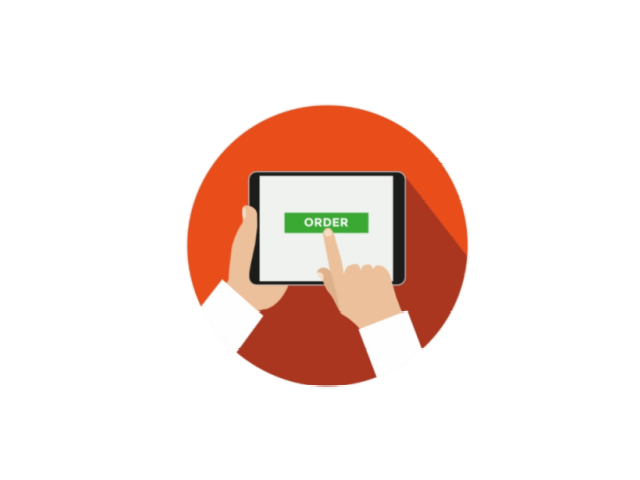
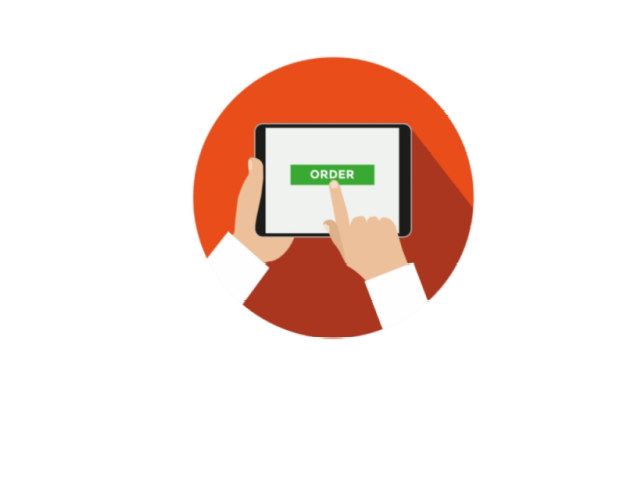
css layots

Changed region(s): [[0.2812, 0.0938, 0.75, 0.8125]]

diff --git a/src/components/MainPage/MainPage.jsx b/src/components/MainPage/MainPage.jsx
@@ -5,49 +5,46 @@ import slide2 from "../../assets/images/Slide2.png";
 import slide3 from "../../assets/images/Slide3.png";
 import s from "./MainPage.module.css";
 
-const MainPage = () => {
+const MainPage = (props) => {
     const [index, setIndex] = useState(0);
     const handleSelect = (selectedIndex, e) => {
         setIndex(selectedIndex);
     };
-
-    return <div>
-        <Carousel activeIndex={index} onSelect={handleSelect} className = {s.carousel}>
+    return <div className = {!props.isAuth&&s.auth || props.isAuth&&s.notAuth}>
+        <Carousel activeIndex={index} onSelect={handleSelect} >
             <Carousel.Item>
                 <img
-                    className={s.image}
+                    className={!props.isAuth&&s.image || props.isAuth&&s.imageNotAuth}
                     src={slide1}
                     alt="First slide"
                 />
                 <Carousel.Caption>
-                    <h3>First slide label</h3>
-                    <p>Nulla vitae elit libero, a pharetra augue mollis interdum.</p>
+                    <h3 className={s.text}>Сделайте или возьмите в работу заказ</h3>
+                    <p className={s.text}>Вы можете разместить или взять в работу заказ за 1 минуту </p>
                 </Carousel.Caption>
             </Carousel.Item>
             <Carousel.Item>
                 <img
-                    className={s.image}
+                    className={!props.isAuth&&s.image || props.isAuth&&s.imageNotAuth}
                     src={slide2}
                     alt="Second slide"
                 />
 
                 <Carousel.Caption>
-                    <h3>Second slide label</h3>
-                    <p>Lorem ipsum dolor sit amet, consectetur adipiscing elit.</p>
+                    <h3 className={s.text}>Передайте или заберите заказ</h3>
+                    <p className={s.text}>Все заказы застрахованы</p>
                 </Carousel.Caption>
             </Carousel.Item>
             <Carousel.Item>
                 <img
-                    className={s.image}
+                    className={!props.isAuth&&s.image || props.isAuth&&s.imageNotAuth}
                     src={slide3}
                     alt="Third slide"
                 />
 
                 <Carousel.Caption>
-                    <h3>Third slide label</h3>
-                    <p>
-                        Praesent commodo cursus magna, vel scelerisque nisl consectetur.
-                    </p>
+                    <h3 className={s.text}>Будьте довольны</h3>
+                    <p className={s.text}>Согласно опросам, 98.6% пользователей довольны нашим сервисом</p>
                 </Carousel.Caption>
             </Carousel.Item>
         </Carousel>

diff --git a/src/components/Login/Login.jsx b/src/components/Login/Login.jsx
@@ -6,23 +6,24 @@ import {connect} from "react-redux";
 import {login} from "../../redux/auth-reducer";
 import {Link, Redirect} from "react-router-dom";
 import Button from "react-bootstrap/Button";
+import s from "./Login.module.css";
 
 const LoginForm = (props) => {
     return (
-        <div>
-        <form onSubmit={props.handleSubmit}>
-            <div>
-                <Field placeholder ={"Login"} name = {"login"} validate = {[required]} component = {Input}/>
-            </div>
-            <div>
-                <Field placeholder ={"Password"} name = {"password"} validate = {[required]} type={"password"} component = {Input}/>
-            </div>
-            <div>
-                <Button variant="success" type={"submit"}>Войти</Button>
-                <Link className="btn btn-primary" to={"/registration"}>Зарегистрироваться</Link>
-            </div>
-        </form>
-        </div>
+
+            <form className={s.loginForm} onSubmit={props.handleSubmit}>
+                <Field className={s.input} placeholder={"Логин"} name={"login"} validate={[required]}
+                       component={Input}/>
+
+                <Field className={s.input} placeholder={"Пароль"} name={"password"} validate={[required]}
+                       type={"password"} component={Input}/>
+
+                <div className={s.buttons}>
+                    <Button className={s.button} variant="success" type={"submit"}>Войти</Button>
+                    <Link className={"btn btn-primary" + " "+s.button} to={"/registration"}>Зарегистрироваться</Link>
+                </div>
+            </form>
+
     );
 };
 
@@ -36,11 +37,10 @@ const Login = (props) => {
         props.login(formData.login, formData.password)
     };
     if (props.isAuth) {
-        return <Redirect to={"/main"} />
+        return <Redirect to={"/main"}/>
     }
-    return <div>
-        <h1>Login</h1>
-        <LoginReduxForm onSubmit={onSubmit} />
+    return <div className={s.loginWrapper}>
+        <LoginReduxForm onSubmit={onSubmit}/>
     </div>
 };
 

diff --git a/src/App.js b/src/App.js
@@ -14,9 +14,9 @@ import Preloader from "./components/common/Preloader/Preloader";
 import Order from "./components/Order/Client/Order";
 import Price from "./components/Order/Client/Price";
 import OrdersPageContainer from "./components/Order/Common/OrdersPageContainer";
-import MainPage from "./components/MainPage/MainPage";
 import FooterContainer from "./components/Footer/FooterContainer";
 import background from "./assets/images/background.jpg";
+import MainPageContainer from "./components/MainPage/MainPageContainer";
 
 class App extends React.Component {
 
@@ -40,7 +40,7 @@ class App extends React.Component {
                 <div className={'app-wrapper-content'}>
                     <Route path='/main'
                            render={() =>
-                             <MainPage/>}/>
+                             <MainPageContainer/>}/>
                     <Route path='/registration'
                            render={() => <Registration/>}/>
                     <Route path='/login'

diff --git a/src/components/Header/Header.jsx b/src/components/Header/Header.jsx
@@ -1,15 +1,17 @@
 import React from 'react';
 import s from './Header.module.css';
 import {NavLink} from "react-router-dom";
+import {Button} from "react-bootstrap";
+import logo from "./../../assets/images/logo.png"
 
 const Header = (props) => {
     return <header className={s.header + ' ' +((props.role==='Courier')&&s.courier) + ' ' +((props.role==='Client')&&s.customer)}>
-        <img src='https://www.freelogodesign.org/Content/img/logo-ex-7.png' />
+        <NavLink to={'/main'}><img src={logo}/></NavLink>
 
         <div className={s.loginBlock}>
             { props.isAuth
-                ? <div>{props.username} - <button onClick={props.logout}>Log out</button> </div>
-                : <NavLink to={'/login'}>Login</NavLink> }
+                ? <div>{props.username}   <Button className={"btn btn-danger" } onClick={props.logout}>Выйти</Button></div>
+                : <NavLink className={"btn btn-outline-primary" }  to={'/login'}>Login</NavLink> }
         </div>
     </header>
 }

diff --git a/src/components/Login/Login.module.css b/src/components/Login/Login.module.css
@@ -1,0 +1,43 @@
+.loginWrapper{
+    padding-right: 200px;
+    margin-top: 200px;
+    margin-left: 225px;
+}
+
+.loginForm{
+    display: flex;
+    flex-direction: column;
+    width: 500px;
+}
+
+.input{
+    width: 350px;
+    height: 50px;
+    margin-bottom: 20px;
+    border-color: transparent;
+    opacity: 80%;
+    border-radius: 5px;
+    text-align: center;
+    margin-left: 5px;
+    background-color: #dadada;
+    font-size: 20px;
+}
+.input:focus{
+    font-size: larger;
+    font-weight: bold;
+    transition: border-color .25s,background-color .25s;
+    border: 1px solid #ffee07;
+    background-color: #fff;
+    opacity: 100%;
+}
+.buttons{
+    width: 350px;
+    display: flex;
+    flex-direction: row;
+    justify-content: space-between;
+}
+
+.button{
+    width: 170px;
+    opacity: 90%;
+}

diff --git a/src/components/MainPage/MainPage.module.css b/src/components/MainPage/MainPage.module.css
@@ -1,26 +1,30 @@
-.header {
-    grid-area: f;
-    background-color: gray;
+.image {
+    width: 800px;
+    height: 600px;
+    transition: 2s;
 }
 
-.header img {
-    width: 20px;
+.imageNotAuth {
+    width: 800px;
+    height: 600px;
+    margin-left: 100px;
+    transition: 2s;
 }
 
-.courier{
-    background-color: #805d1c;
+
+.auth {
+    padding-right: 200px;
+    transition: 1s;
 }
 
-.customer{
-    background-color: #00801f;
+.notAuth {
+    transition: 1s;
 }
 
-.image{
-    width: 60%;
-    align-content: center;
+.text {
+    color: black;
 }
 
-.carousel {
-    display: flex;
-    flex-direction: column;
+.logOut{
+
 }

diff --git a/src/components/Order/Common/OrdersPageContainer.jsx b/src/components/Order/Common/OrdersPageContainer.jsx
@@ -2,6 +2,7 @@ import {connect} from "react-redux";
 import {compose} from "redux";
 import React from "react";
 import OrdersPageCourier from "./OrdersPage";
+import {Redirect} from "react-router-dom";
 
 
 let mapStateToProps = (state) => ({
@@ -18,9 +19,9 @@ const OrdersPageContainer = (props) => {
     } else if (props.role ==='Courier'){
         return  <OrdersPageCourier{...props}/>
     } else {
-        return <div> opportunities</div>
+        return <Redirect to={"/main"}/>
     }
-}
+};
 
 export default compose(
     connect(mapStateToProps, mapDispatchToProps)(OrdersPageContainer)

diff --git a/src/components/Header/Header.module.css b/src/components/Header/Header.module.css
@@ -1,28 +1,34 @@
 .header {
     grid-area: h;
-    background-color: gray;
+    background-color: rgba(0, 0, 0, 0.9);
+    transition: 1s;
 }
 
 .header img {
-    width: 20px;
+    width: 200px;
+    height: 60px;
 }
 
 .courier{
     background-color: rgba(0, 0, 0, 0.3);
+    transition: 1s;
 }
 
 .customer{
     background-color: rgba(0, 0, 0, 0.3);
+    transition: 1s;
 }
 
-
-
-
 .loginBlock {
+    margin-top: 11px;
     float: right;
-
+    font-size: 20px;
+    font-weight: bold;
 }
 .loginBlock a {
     color: white;
+    text-decoration: none;
 }
+.loginBlock:hover {
 
+}

diff --git a/src/components/MainPage/MainPageContainer.jsx b/src/components/MainPage/MainPageContainer.jsx
@@ -1,0 +1,16 @@
+import React from 'react';
+import {connect} from "react-redux";
+import {logout} from "../../redux/auth-reducer";
+import MainPage from "./MainPage";
+
+class MainPageContainer extends React.Component {
+
+    render() {
+        return <MainPage {...this.props} />
+    }
+}
+const mapStateToProps = (state) => ({
+    isAuth: state.auth.isAuth,
+});
+
+export default connect(mapStateToProps, {logout})(MainPageContainer);

diff --git a/src/components/common/FormsControl/FormsControl.jsx b/src/components/common/FormsControl/FormsControl.jsx
@@ -5,7 +5,7 @@ const FormControl = ({input, meta, child, ...props}) => {
     const hasError = meta.touched && meta.error;
     return (
         <div className={s.formControl + " " + (hasError ? s.error : " ")}>
-            <div>
+            <div className={s.block}>
                 {props.children}
                 {hasError && <span>{meta.error}</span>}
             </div>

diff --git a/src/components/Footer/Footer.module.css b/src/components/Footer/Footer.module.css
@@ -1,16 +1,16 @@
 .footer {
     grid-area: f;
-    background-color: gray;
-}
-
-.footer img {
-    width: 20px;
+    background-color: rgba(0, 0, 0, 0.9);
+    transition: 1s;
+    text-align: center;
 }
 
 .courier{
     background-color: rgba(0, 0, 0, 0.3);
+    transition: 1s;
 }
 
 .customer{
     background-color: rgba(0, 0, 0, 0.3);
+    transition: 1s;
 }

diff --git a/src/components/Navbar/Navbar.module.css b/src/components/Navbar/Navbar.module.css
@@ -4,6 +4,7 @@
     padding: 20px;
     display: flex;
     flex-direction: column;
+    transition: 1s;
 }
 
 .item a {
@@ -23,5 +24,6 @@
 
 .emptyUser{
     grid-area: n;
-    background-color: #5b5e60;
+    background-color: transparent;
+    transition: 1s;
 }
